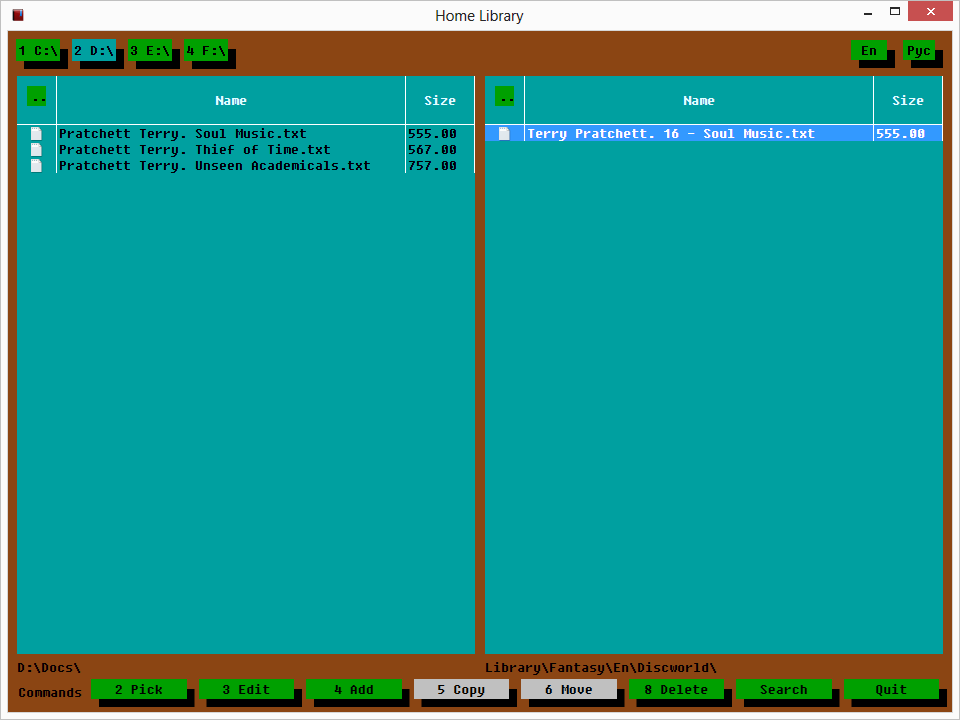
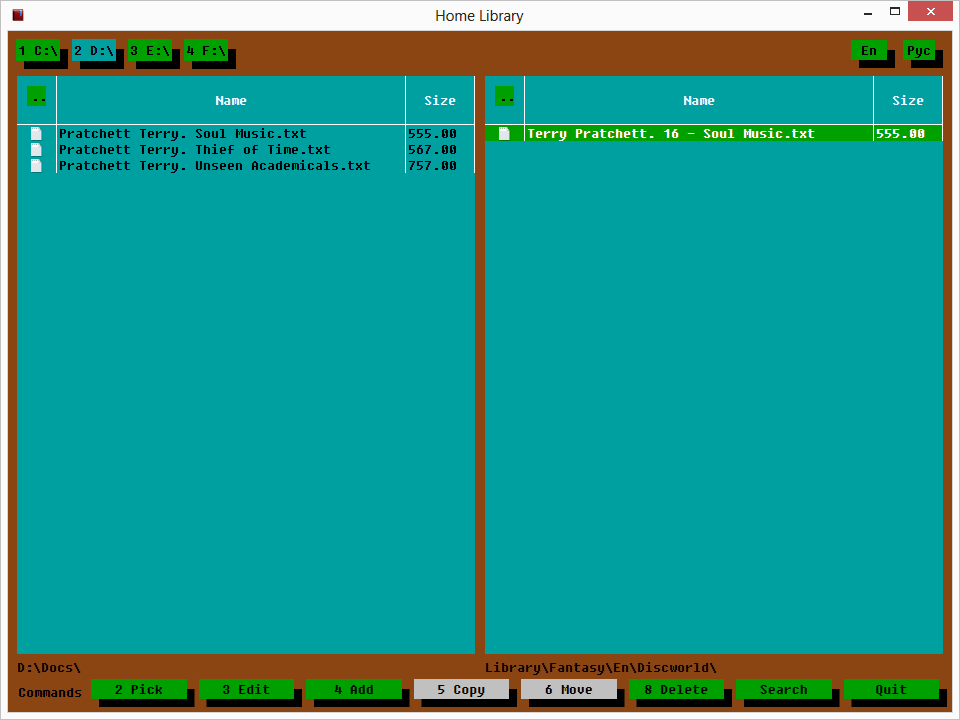
added config verification at startup

Changed region(s): [[0.5, 0.1528, 1.0, 0.2139]]

diff --git a/Src/LibraryCommander/MainWindow.xaml b/Src/LibraryCommander/MainWindow.xaml
@@ -200,15 +200,8 @@
                                     <!--<Setter Property="Background" Value="Transparent"/>-->
                                     <!--<Setter Property="IsHitTestVisible" Value="False"/>-->
                                     <Setter Property="local:Attached.IsFocused" Value="{Binding Path=IsSelected, RelativeSource={RelativeSource Self}, Mode=OneWay}"/>
-                                    <Setter Property="BorderThickness" Value="0"/>                                        
-                                    <Setter Property="FocusVisualStyle" Value="{x:Null}"/>                                        
-                                    <Style.Triggers>
-                                        <Trigger Property="IsSelected" Value="True">
-                                            <Setter Property="Background" Value="{DynamicResource {x:Static SystemColors.HighlightBrushKey}}"/>
-                                            <Setter Property="Foreground" Value="{DynamicResource {x:Static SystemColors.HighlightTextBrushKey}}"/>
-                                            <Setter Property="BorderBrush" Value="{DynamicResource {x:Static SystemColors.HighlightBrushKey}}"/>
-                                        </Trigger>
-                                    </Style.Triggers>
+                                    <Setter Property="BorderThickness" Value="0"/>
+                                    <Setter Property="FocusVisualStyle" Value="{x:Null}"/>
                                 </Style>
                             </DataGrid.CellStyle>
                                 

diff --git a/Src/LibraryCommander/App.xaml.cs b/Src/LibraryCommander/App.xaml.cs
@@ -4,11 +4,14 @@ using System.Collections.Generic;
 using System.Collections.ObjectModel;
 using System.Configuration;
 using System.Data;
+using System.Data.SQLite;
 using System.Globalization;
 using System.IO;
 using System.Linq;
 using System.Threading;
+using System.Threading.Tasks;
 using System.Windows;
+using System.Windows.Threading;
 using BusinessLogic;
 using BusinessLogic.Fs;
 using DataAccess;
@@ -32,7 +35,54 @@ namespace LibraryCommander
 
         private void App_OnStartup(object sender, StartupEventArgs e)
         {
+            DispatcherUnhandledException += LogUnhandledDispatcherException;
+            AppDomain.CurrentDomain.UnhandledException += LogUnhandledDomainException;
+            TaskScheduler.UnobservedTaskException += LogTaskSchedulerUnobservedTaskException;
+
+            LocalizationProvider.CurrentCulture = Thread.CurrentThread.CurrentUICulture;
+            BusinessLogic.Localization.Instance = new LocalizationModel();
+            Injector.Localization = new LocalizationVm();
+
+            // Db verification
+            AppSettings settings;
+            try
+            {
+                // trying to get app setting from db
+                settings = new EntityRepository<AppSettings>().Query().FirstOrDefault();
+            }
+            catch (Exception ex)
+            {
+                var m = new MessageVm { Text = Injector.Localization.DbConnectionError };
+
+                // cannot get data from SQLite db
+                if (ex is SQLiteException || ex.InnerException is SQLiteException)
+                    m.Text += Environment.NewLine + Injector.Localization.SQLiteError;
+                
+                ShowMessage(m);
+                Application.Current.Shutdown();
+                return;
+            }
+
+            // restore last localization from settings
+            if (settings != null && String.IsNullOrWhiteSpace(settings.Culture) == false)
+                LocalizationProvider.CurrentCulture = new CultureInfo(settings.Culture);
+
             string library = ConfigurationManager.AppSettings["library"];
+
+            // Storage verification
+            if (false == Directory.Exists(library))
+            {
+                var m = new MessageVm
+                        {
+                            Text = Injector.Localization.FolderNotFound + Environment.NewLine +
+                                   library + Environment.NewLine +
+                                   Injector.Localization.StorageError
+                        };
+
+                ShowMessage(m);
+                Application.Current.Shutdown();
+                return;
+            }
 
             var args = Environment.GetCommandLineArgs();
             Resources.MergedDictionaries.Clear();
@@ -65,23 +115,13 @@ namespace LibraryCommander
             c.Register(() => new FileFormatManager { Repository = new FileFormatRepository() }); 
             c.Register(() => new BookManager { Repository = new BookRepository() });
 
-            c.Register(() => new SearchNavigator(library) { Repository = new BookRepository() });             
+            c.Register(() => new SearchNavigator(library) { Repository = new BookRepository() });
             c.Register(() => new VirtualFsNavigator(library)
                              {
                                  BookRepository = new BookRepository(),
                                  CategoryRepository = new CategoryRepository()
                              });
             Injector.Container = c;
-            
-            var settings = new EntityRepository<AppSettings>().Query().FirstOrDefault();
-
-            // configurate localization
-            if (settings != null && String.IsNullOrWhiteSpace(settings.Culture) == false)
-                LocalizationProvider.CurrentCulture = new CultureInfo(settings.Culture);
-            else
-                LocalizationProvider.CurrentCulture = Thread.CurrentThread.CurrentUICulture;
-            BusinessLogic.Localization.Instance = new LocalizationModel();
-            Injector.Localization = new LocalizationVm();            
 
             StorageManager.StoragePath = library;
             UsageValidator.Repository = new BookRepository();
@@ -107,6 +147,10 @@ namespace LibraryCommander
 
         private void App_OnExit(object sender, ExitEventArgs e)
         {
+            // app initialization was not completed. quit without changing settings
+            if (_commander == null)
+                return;
+
             // save app setting on Exit
             var rep = new EntityRepository<AppSettings>();
             var settings = rep.Query().FirstOrDefault() ?? new AppSettings();
@@ -123,6 +167,59 @@ namespace LibraryCommander
             settings.IdCycle = c.IdCycle;
 
             rep.SaveOrUpdate(settings);
+        }
+
+        private void ShowMessage(MessageVm m)
+        {
+            new WpfMessageBox().ShowDialog(m);
+        }
+
+        private void ShowExceptionMessage(Exception ex, string source)
+        {
+            var m = new MessageVm
+                    {
+                        Text = ex.Message + Environment.NewLine + Injector.Localization.LogRequest,
+                        Yes = true,
+                        No = true,
+                    };
+
+            // request to create log file
+            new WpfMessageBox().ShowDialog(m);
+
+            if (m.DialogResult.ToString() != "Yes")
+                return;
+
+            try
+            {
+                File.WriteAllLines("Log " + DateTime.Now.ToString("dd-mm-yy hh-MM-ss") + ".txt",
+                    new[]
+                    {
+                        source,
+                        ex.GetType().FullName,
+                        ex.Message,
+                        ex.StackTrace
+                    });
+            }
+            catch
+            {
+                // log write failed
+            }
+        }
+
+        private void LogTaskSchedulerUnobservedTaskException(object sender, UnobservedTaskExceptionEventArgs arg)
+        {
+            ShowExceptionMessage(arg.Exception, "TaskScheduler.UnobservedTaskException");
+        }
+
+        private void LogUnhandledDomainException(object sender, UnhandledExceptionEventArgs arg)
+        {
+            ShowExceptionMessage(arg.ExceptionObject as Exception, "AppDomain.CurrentDomain.UnhandledException: " + String.Format("IsTerminating = {0}", arg.IsTerminating));
+        }
+
+        private void LogUnhandledDispatcherException(object sender, DispatcherUnhandledExceptionEventArgs arg)
+        {
+            ShowExceptionMessage(arg.Exception, "DispatcherUnhandledException");
+            arg.Handled = true;
         }
     }
 }

diff --git a/Src/LibraryCommander/Properties/Resources.Designer.cs b/Src/LibraryCommander/Properties/Resources.Designer.cs
@@ -151,6 +151,15 @@ namespace LibraryCommander.Properties {
         }
         
         /// <summary>
+        ///   Looks up a localized string similar to Cannot connect to database..
+        /// </summary>
+        internal static string DbConnectionError {
+            get {
+                return ResourceManager.GetString("DbConnectionError", resourceCulture);
+            }
+        }
+        
+        /// <summary>
         ///   Looks up a localized string similar to Delete.
         /// </summary>
         internal static string Del {
@@ -381,6 +390,15 @@ namespace LibraryCommander.Properties {
         }
         
         /// <summary>
+        ///   Looks up a localized string similar to Create log file?.
+        /// </summary>
+        internal static string LogRequest {
+            get {
+                return ResourceManager.GetString("LogRequest", resourceCulture);
+            }
+        }
+        
+        /// <summary>
         ///   Looks up a localized string similar to Home Library.
         /// </summary>
         internal static string MainWindow {
@@ -404,6 +422,24 @@ namespace LibraryCommander.Properties {
         internal static string NullError {
             get {
                 return ResourceManager.GetString("NullError", resourceCulture);
+            }
+        }
+        
+        /// <summary>
+        ///   Looks up a localized string similar to If app was launched with default settings, file Books.db is possibly missing..
+        /// </summary>
+        internal static string SQLiteError {
+            get {
+                return ResourceManager.GetString("SQLiteError", resourceCulture);
+            }
+        }
+        
+        /// <summary>
+        ///   Looks up a localized string similar to Change &quot;library&quot; value in application .CONFIG file (should be full path of an existing folder).
+        /// </summary>
+        internal static string StorageError {
+            get {
+                return ResourceManager.GetString("StorageError", resourceCulture);
             }
         }
         

diff --git a/Src/LibraryCommander/Localization/LocalizationVm.cs b/Src/LibraryCommander/Localization/LocalizationVm.cs
@@ -40,5 +40,10 @@ namespace LibraryCommander.Localization
 
         public string FileNotFound { get { return GetResource(); } }
         public string FolderNotFound { get { return GetResource(); } }
+
+        public string DbConnectionError { get { return GetResource(); } }
+        public string SQLiteError { get { return GetResource(); } }
+        public string StorageError { get { return GetResource(); } }
+        public string LogRequest { get { return GetResource(); } }
     }
 }

diff --git a/Src/LibraryCommander/Properties/AssemblyInfo.cs b/Src/LibraryCommander/Properties/AssemblyInfo.cs
@@ -51,5 +51,5 @@ using System.Windows;
 // You can specify all the values or you can default the Build and Revision Numbers 
 // by using the '*' as shown below:
 // [assembly: AssemblyVersion("1.0.*")]
-[assembly: AssemblyVersion("1.0.0.0")]
-[assembly: AssemblyFileVersion("1.0.0.0")]
+[assembly: AssemblyVersion("1.0.1.0")]
+[assembly: AssemblyFileVersion("1.0.1.0")]

diff --git a/Src/ViewModels/ILocalizationVm.cs b/Src/ViewModels/ILocalizationVm.cs
@@ -32,5 +32,10 @@
         string Library { get; }
         string FileNotFound { get; }
         string FolderNotFound { get; }
+
+        string DbConnectionError { get; }
+        string SQLiteError { get; }
+        string StorageError { get; }
+        string LogRequest { get; }
     }
 }
